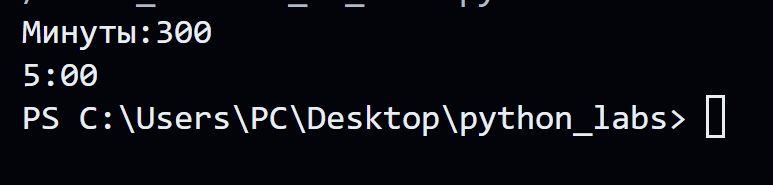
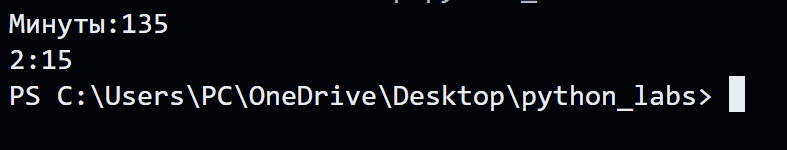
lab1

diff --git a/README.md b/README.md
@@ -3,13 +3,45 @@
 ![Hello wolrd!](./images/lab01/ex01.png)
 
 ## Задание 2
-![Числа](./images/lab01/ex-02.png)
+![a=float(input('a:').replace(',','.'))
+b=float(input('b:').replace(',','.'))
+print(f'sum={a+b}; avg={((a+b)/2):.2f}')](./images/lab01/ex-02.png)
 
 ## Задание 3
-![](./images/lab01/ex-03.png)
+![price=float(input('price:'))
+discount=float(input('discount:'))
+vat=float(input('vat:'))
+
+
+base = price * (1 - discount/100)
+vat_amount = base * (vat/100)
+total = base + vat_amount
+
+print(f'База после скидки: {base:.2f} ₽')
+print(f'НДС:               {vat_amount:.2f} ₽')
+print(f'Итого к оплате:    {total:.2f} ₽')](./images/lab01/ex-03.png)
 
 ## Задание 4
-![](./images/lab01/ex-4.png)
+![minute=int(input('Минуты:'))
+ans=f'{minute//60}:{(minute%60)}'
+if (ans[-1]=='0' and ans[-2]==':'):
+    print(ans+'0')
+else:
+    print(ans)](./images/lab01/ex-4.png)
 
 ## Задание 5
-![](./images/lab01/ex-05.png)
+![fio=input("ФИО:")
+init=''
+cnt=0
+fl=0
+for i in fio:
+    if i!=' ' and fl==0:
+        init+=i
+        fl=1
+    if i!=' ' and fl==1:
+        cnt+=1
+    if i==' ':
+        fl=0
+
+print(f'Инициалы: {init}.')
+print(f'Длина (символов):{cnt+2}')](./images/lab01/ex-05.png)
